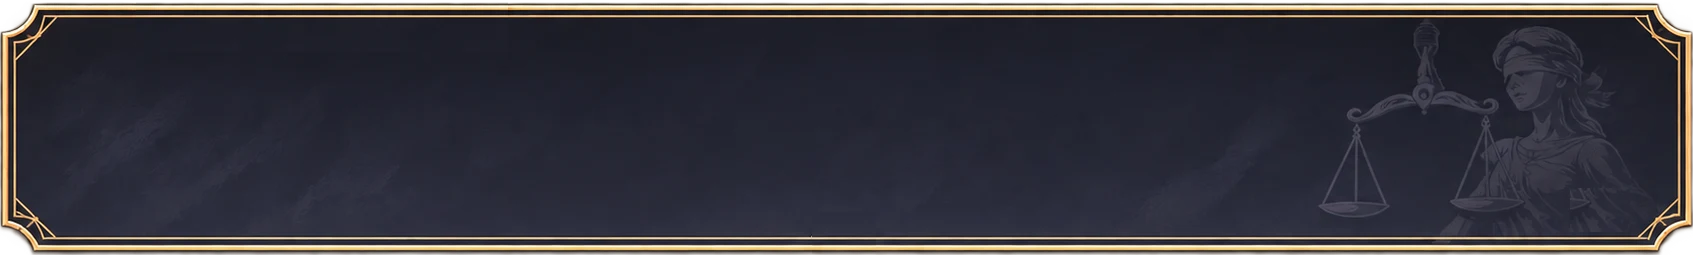
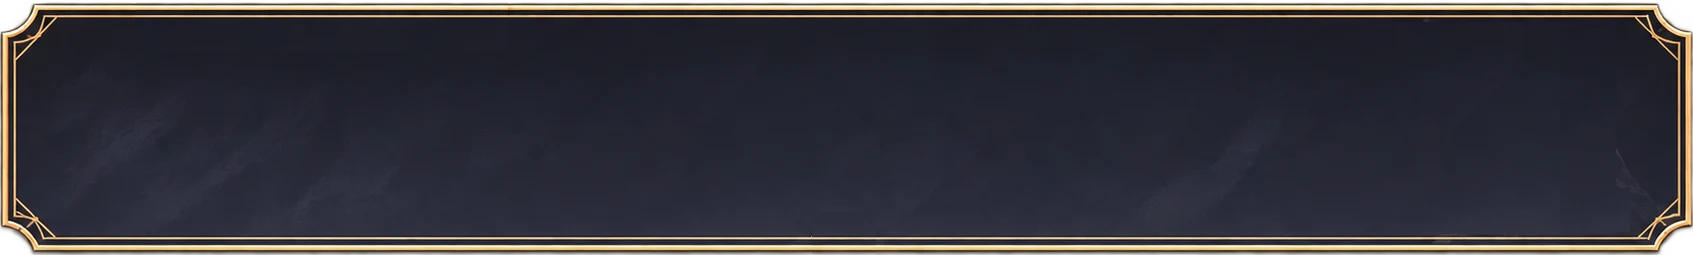
fix: 모바일 대화창 테두리 겹침과 무늬 늘어남 수정

diff --git a/src/features/play/play.css b/src/features/play/play.css
@@ -133,16 +133,17 @@
 }
 
 /*
- * 대화창: 키트 대화창(1693x255) 9조각. 오른쪽 조각을 넓게(410) 잡아 정의의 여신 무늬가 늘어나지 않게.
+ * 대화창: 키트 대화창(1693x255) 9조각. 네 모서리 장식(80px)은 그대로, 가운데를 늘린다.
+ * 정의의 여신 무늬는 테두리 조각에서 떼어(::after) 비율을 고정한다 — 세로 화면에서 대화창이 높아져도 늘어나지 않게.
  * --k = 화면에 그릴 배율
  */
 .dialogue-frame {
   --k: 0.6;
+  position: relative;
   display: grid;
   padding: 0;
   border: 0 solid transparent;
-  border-image: var(--kit-dialog) 20 410 20 46 fill / calc(20px * var(--k)) calc(410px * var(--k))
-    calc(20px * var(--k)) calc(46px * var(--k));
+  border-image: var(--kit-dialog) 20 80 20 80 fill / calc(20px * var(--k)) calc(80px * var(--k));
   background: none;
   color: var(--paper);
   font: inherit;
@@ -153,12 +154,25 @@ button.dialogue-frame {
   cursor: pointer;
 }
 
+.dialogue-frame::after {
+  content: '';
+  position: absolute;
+  right: calc(30px * var(--k));
+  bottom: calc(18px * var(--k));
+  width: clamp(110px, calc(362px * var(--k) * 1.05), 46%);
+  max-height: calc(100% - 36px * var(--k));
+  aspect-ratio: 362 / 218;
+  background: var(--kit-justice) right bottom / contain no-repeat;
+  pointer-events: none;
+}
+
 .dialogue-face {
   position: relative;
   display: block;
   min-height: calc(3 * 1.7em + 2 * var(--space-6));
   max-height: 46vh;
   overflow-y: auto;
+  z-index: 1; /* 여신 무늬(::after) 위 */
   /* 오른쪽은 여신 무늬 앞에서 줄을 바꾼다 */
   padding: var(--space-7) max(calc(var(--space-7) + 12px), 14%) var(--space-6)
     calc(var(--space-7) + 8px);
@@ -425,7 +439,12 @@ button.dialogue-frame {
 
 /* ───────── 포커스·화면 크기·동작 줄이기 ───────── */
 
-.dialogue-frame:focus-visible,
+/* 대화창은 대사마다 코드로 포커스를 받아 휴대폰에서도 :focus-visible 이 켜진다. 네모 테두리 대신 밝기만 */
+.dialogue-frame:focus-visible {
+  outline: none;
+  filter: brightness(1.12);
+}
+
 .choice:focus-visible {
   outline: 2px solid var(--gold-bright);
   outline-offset: 3px;
@@ -440,6 +459,9 @@ button.dialogue-frame {
 @media (max-aspect-ratio: 4/5) {
   .dialogue-frame {
     --k: 0.34;
+  }
+  .dialogue-frame::after {
+    width: 46%;
   }
   .choice {
     --k: 0.42;

diff --git a/src/data/assets.ts b/src/data/assets.ts
@@ -67,6 +67,7 @@ const KIT_PARTS = [
   'radio',
   'radio-on',
   'thumb',
+  'justice',
 ] as const;
 const kitSrc = (part: (typeof KIT_PARTS)[number]) => `${BASE}assets/ui/kit-${part}.webp`;
 export const KIT = { emblem: kitSrc('emblem'), gem: kitSrc('gem') };
